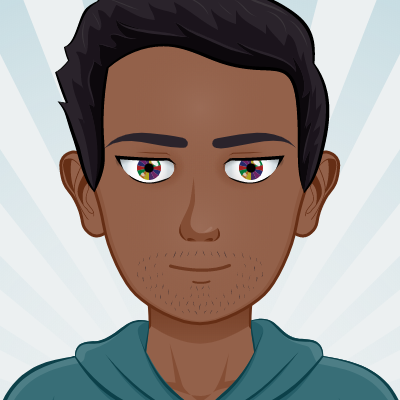
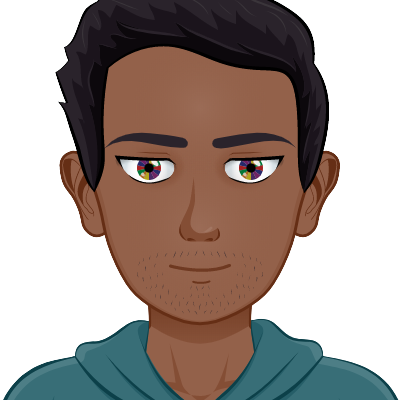
feat: made home layout Responsive

diff --git a/src/pages/blog/index.js b/src/pages/blog/index.js
@@ -5,6 +5,7 @@ import { Link } from "gatsby"
 import Header from "../../components/header"
 import { IoMdCalendar } from "react-icons/io"
 import media from "styled-media-query"
+import data from '../../data/data.json'
 
 import { HomeBackground, Button, Title, Text, IconHover } from "../../styles/"
 
@@ -43,68 +44,17 @@ const Org = styled.div`
   color: #fff;
   text-align: center;
   width: 15rem;
-  &: hover {
+  &:hover {
     cursor: pointer;
   }
 `
-
-const data = [
-  {
-    id: 3,
-    title:
-      "Building A Conversational N.L.P Enabled Chatbot Using Google’s Dialogflow",
-    description:
-      "The 2019 Capgemini research institute’s report published after a research on the use of chat assistants showed a drastic 76% increase in customer satisfaction from organizations where chat assistants where built and incorporated into their services. But how does Dialogflow, a product from Google’s ecosystem aid developers in building chat assistants and contribute to this quota?.",
-    link: "#",
-    date: "Dec 10, 2020",
-  },
-  {
-    id: 1,
-    title:
-      "Building Serverless Front-End Applications Using Google Cloud Platform",
-    description:
-      "The use of serverless applications by developers to handle the business logic of their applications in on the high increase, but how does the Google Cloud — a major service provider within the public cloud — allow developers to manage serverless applications? In this article, you will learn what serverless applications are, how they are used on the Google Cloud, and also scenarios in which they can be used in a front-end application.",
-    link:
-      "https://www.smashingmagazine.com/2020/11/serverless-frontend-applications-google-cloud-platform/",
-    date: "Nov 6, 2020",
-  },
-  {
-    id: 2,
-    title:
-      "How To Manage File Uploads In React With Google Storage And GraphQL",
-    description:
-      " From a user’s profile picture to other media assets, data collection and storage to cloud services through file uploads have become an essential feature for most modern applications. In this article, you will learn how file uploads can be implemented in a GraphQL application.",
-    link:
-      "https://www.smashingmagazine.com/2020/10/file-uploads-react-apollo-google-storage-graphql/",
-    date: "Oct 8, 2020",
-  },
-
-  {
-    id: 4,
-    title: "Django Setup Tutorial",
-    description:
-      "After several years of constant updates and improvements, the Django [/dʒængʊ/] web framework has proven to be one of the most powerful and useful framework for building Database — Driven web applications due to its MVC-style architecture. It has been argued that Django follows the MVT pattern but for simplicity sake i would refer to it as MVC",
-    link: "https://medium.com/@vickywane/django-setup-tutorial-2fb4b33da592",
-    date: "Nov 15, 2018",
-  },
-
-  {
-    id: 4,
-    title: "Wireless Network Communities",
-    description:
-      "Ever since the invention of the internet, several factors have made the internet a bit inaccessible, due to high connection fees, poor connection speeds, security and several other hardware malfunctions. It is refreshing to note that solutions to these problems are being provided by well meaning individuals, organization and start-ups that have come together to provide a solution to these challenges through the invention of “Wireless Community Networks”",
-    link:
-      "https://medium.com/@vickywane/wireless-network-communities-d41a4a8a3657",
-    date: "Nov 20, 2018",
-  },
-]
 
 const TitleHover = styled.a`
   text-decoration: none;
   color: orange;
   transition: all 300ms;
   padding: 0 0.5rem;
-  &: hover {
+  &:hover {
     text-decoration: underline;
   }
 `
@@ -117,7 +67,7 @@ function index() {
       <Body>
         <BodyContent>
           <Title color="white" align="center">
-            " Technical writing is a continuous process of learning ...."
+            "Technical writing is a continuous process of learning ...."
           </Title>
 
           <Text align="center" color="white">
@@ -132,7 +82,7 @@ function index() {
           <hr style={{ background: "white" }} />
 
           <Grid>
-            {data.map(({ title, link, description, date }) => (
+            {data.blog.map(({ title, link, description, date }) => (
               <Card>
                 <div style={{ display: "flex" }}>
                   <IconHover style={{ marginTop: "3px", marginRight: "5px" }}>

diff --git a/src/pages/home/index.js b/src/pages/home/index.js
@@ -30,7 +30,7 @@ const UserCard = styled.div`
   color: #fff;
   padding: 0.5rem 1rem 2rem 1rem;
   border-radius: 7px;
-  box-shadow: 0 2px 3px black;
+  box-shadow: 24px 31px 21px -8px rgba(0,0,0,0.9);
   ${media.lessThan("huge")`
     height: 95%;
     width: 95%;
@@ -257,7 +257,7 @@ const Home = () => {
       query HomeQuery {
         file(relativePath: { eq: "my_avatar.png" }) {
           childImageSharp {
-            fixed(height: 160) {
+            fixed(height: 170) {
               ...GatsbyImageSharpFixed
             }
           }
@@ -384,7 +384,7 @@ const Home = () => {
                   </Title>
                   <StyledText align="center">
                     I work as a Frontend Engineer and also an advocate for Cloud
-                    Engineering through written articles on Cloud Technologies
+                    Engineering through written articles on Cloud Services
                     as a Technical Author.
                   </StyledText>
 

diff --git a/src/styles/index.js b/src/styles/index.js
@@ -20,7 +20,7 @@ export const HoverLink = styled.div`
   padding-left: 10px;
   color: orange;
   cursor: pointer;
-  &: hover {
+  &:hover {
     text-decoration: 1.5px orange underline;
     text-decoration-style: wavy;
   }
@@ -38,7 +38,7 @@ export const Text = styled.p`
 `
 
 export const Title = styled.h3`
-  font-weight: normal;
+  font-weight: ${props => props.weight ? props.weight : 'normal'};
   text-align: ${props => props.align};
   font-size: ${props => (props.small ? "1rem" : "1.2rem")};
   color: ${props => props.color};

diff --git a/src/components/header.js b/src/components/header.js
@@ -7,7 +7,7 @@ import { FiMenu } from "react-icons/fi"
 import { Text, center, IconHover } from "../styles/"
 
 const HeaderBody = styled.header`
-  height: 60px;
+  height: 70px;
   background: rebeccapurple;
   display: flex;
   justify-content: center;
